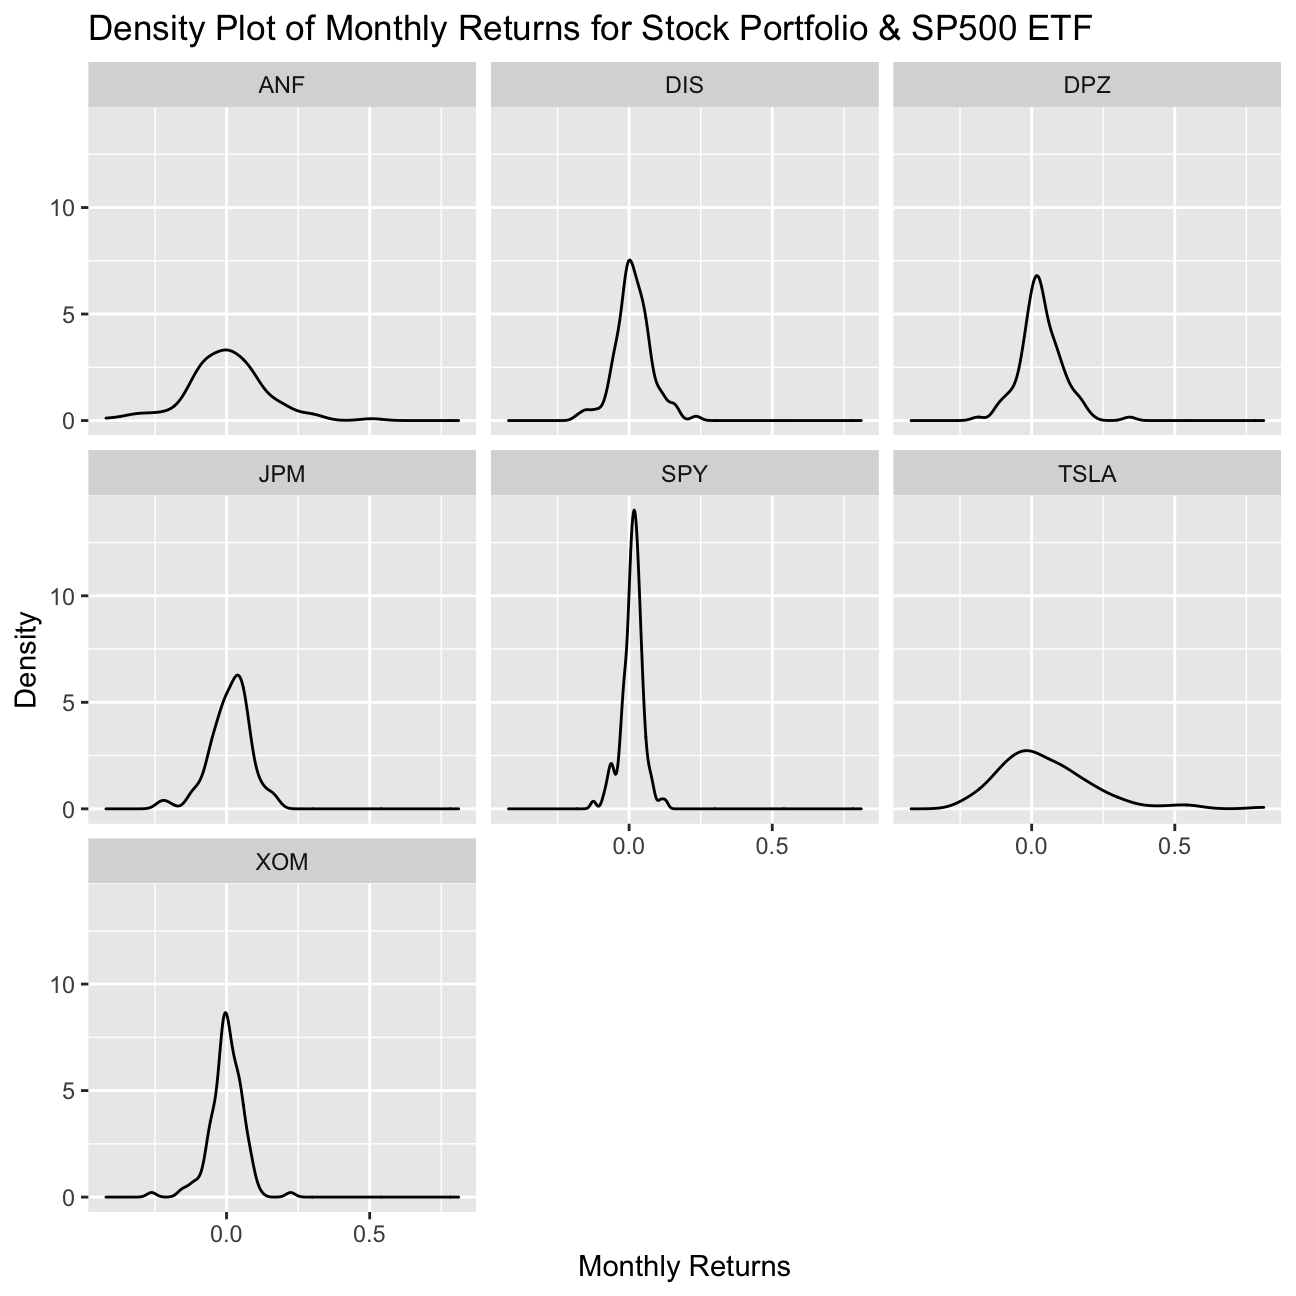
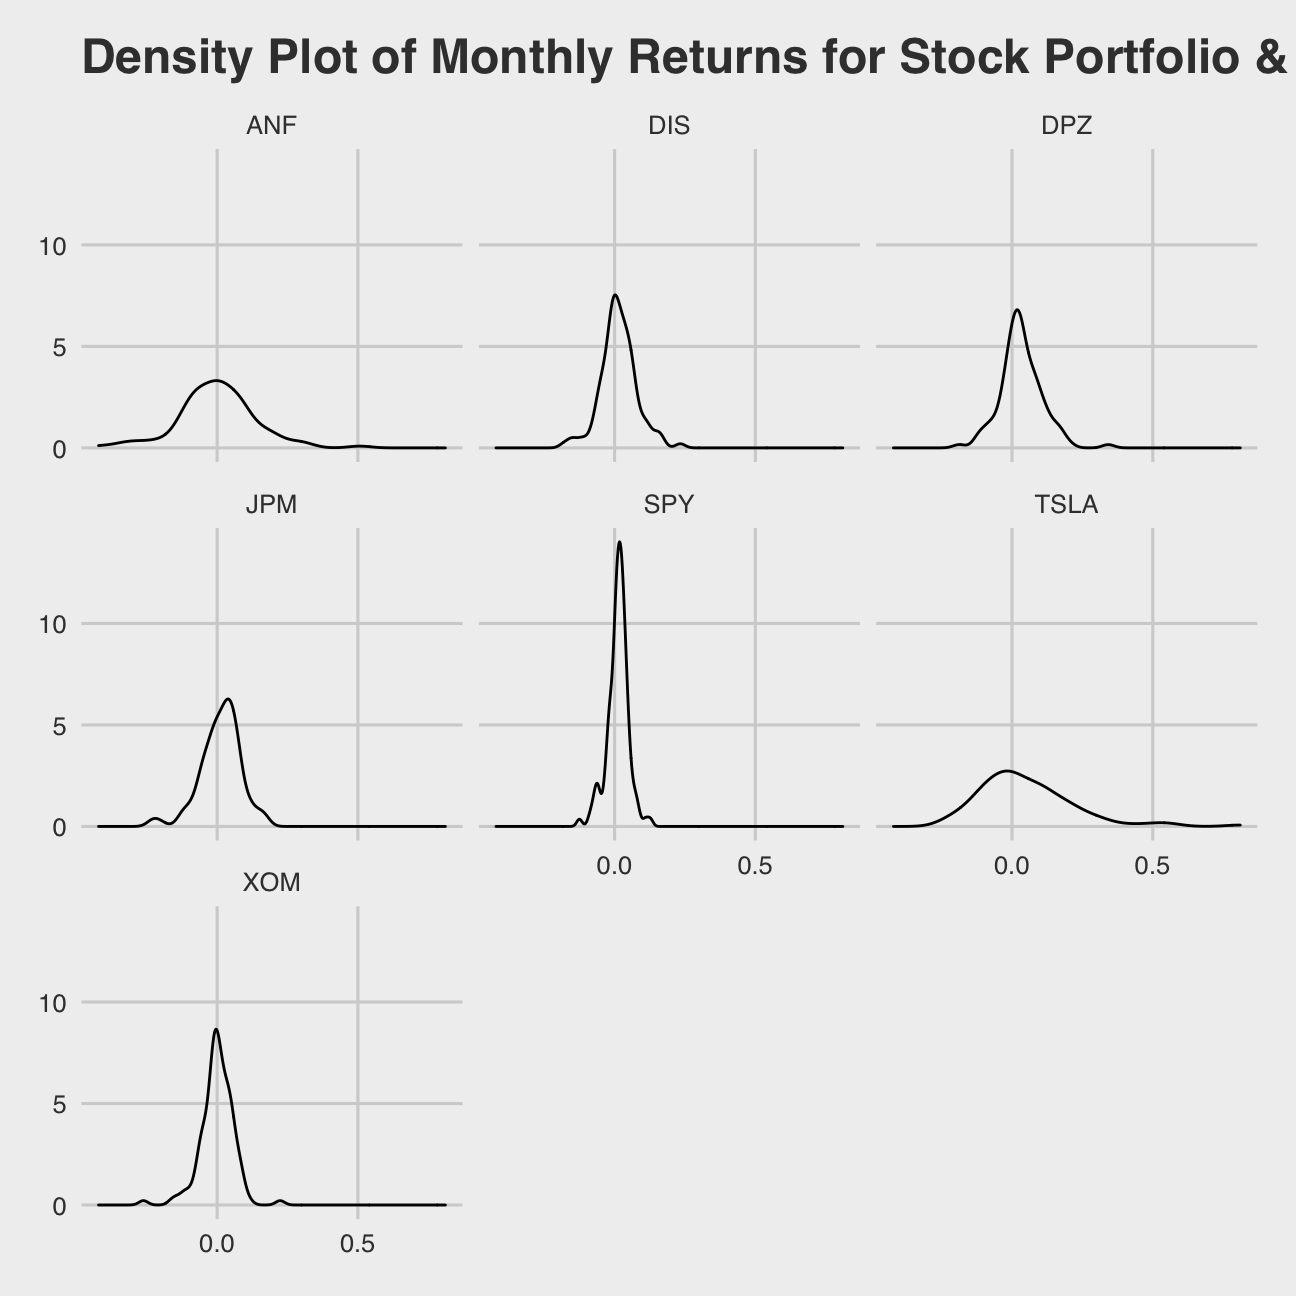
changing plot style in blogdown7

diff --git a/content/blogs/blog7.html b/content/blogs/blog7.html
@@ -26,8 +26,6 @@ library(tidyquant)
 library(kableExtra)
 library(ggrepel)
 library(patchwork)</code></pre>
-<div id="returns-of-financial-stocks" class="section level1">
-<h1>Returns of financial stocks</h1>
 <p>Here is the analysis on Returns of Financial Stock of a select few companies. We utilise the monthly, yearly and daily returns to gauge behaviour of these stock over a fixed period of time.</p>
 <pre class="r"><code># Read the dataset
 nyse &lt;- read_csv(here::here(&quot;data&quot;,&quot;nyse.csv&quot;))</code></pre>
@@ -187,7 +185,7 @@ glimpse(myStocks) # examine the structure of the resulting data frame</code></pr
 ## $ close    &lt;dbl&gt; 43.6, 44.2, 44.7, 44.5, 43.6, 43.4, 43.6, 44.7, 44.5, 44.9, …
 ## $ volume   &lt;dbl&gt; 43278500, 40036800, 50032500, 31606200, 69579400, 30098100, …
 ## $ adjusted &lt;dbl&gt; 33.3, 33.8, 34.2, 34.0, 33.4, 33.2, 33.4, 34.2, 34.0, 34.4, …</code></pre>
-<p><strong>(3) - Financial performance analysis depend on returns; If I buy a stock today for 100 and I sell it tomorrow for 101.75, my one-day return, assuming no transaction costs, is 1.75%. So given the adjusted closing prices, our first step is to calculate daily and monthly returns.</strong></p>
+<p><strong>- Financial performance analysis depend on returns; If I buy a stock today for 100 and I sell it tomorrow for 101.75, my one-day return, assuming no transaction costs, is 1.75%. So given the adjusted closing prices, our first step is to calculate daily and monthly returns.</strong></p>
 <pre class="r"><code>#calculate daily returns
 myStocks_returns_daily &lt;- myStocks %&gt;%
   tq_transmute(select     = adjusted, 
@@ -215,7 +213,7 @@ myStocks_returns_annual &lt;- myStocks %&gt;%
                type       = &quot;arithmetic&quot;,
                col_rename = &quot;yearly_returns&quot;,
                cols = c(nested.col))</code></pre>
-<p><strong>(4) - Creating a table where I summarise monthly returns for each of the stocks and <code>SPY</code>(Exchange Trade Fund); min, max, median, mean, SD.</strong></p>
+<p><strong>Creating a table where I summarise monthly returns for each of the stocks and <code>SPY</code>(Exchange Trade Fund); min, max, median, mean, SD.</strong></p>
 <pre class="r"><code>#We group the monthly returns data by symbol, and create the summary variables in summarise, before arranging by mean in descending order
 summary_monthly_stock_returns &lt;- myStocks_returns_monthly %&gt;% 
   
@@ -397,14 +395,14 @@ ANF
 <p><strong>(5) - Plot a density plot, using <code>geom_density()</code>, for each of the stocks</strong></p>
 <pre class="r"><code>#We create a density plot, with appropriately labelled axes and an appropriate title, faceted by stock ticker
 ggplot(myStocks_returns_monthly, aes(x=monthly_returns)) + 
-  geom_density() + 
+  geom_density() + theme_fivethirtyeight() +
   facet_wrap(~symbol) + 
   labs(x=&quot;Monthly Returns&quot;, y=&quot;Density&quot;, title=&quot;Density Plot of Monthly Returns for Stock Portfolio &amp; SP500 ETF&quot;)</code></pre>
 <p><img src="/blogs/blog7_files/figure-html/density_monthly_returns-1.png" width="648" style="display: block; margin: auto;" /></p>
 <p>The Tesla (TSLA) stock is most risky, since the distribution of monthly returns is widest, showing high variation. Further, it is skewed positively, meaning this variation falls around and below a return of 0.00%. While Abercrombie &amp; Fitch Co. (ANF) may seem similarly risky, this shows a higher peak, and therefore a narrower distribution, meaning less variation in monthly returns. This means it is a more certain, or less risky, investment.</p>
 <p>The least risky stock is Exxon Mobil (XOM), which has the highest peak of all the stock distributions. Despite being centred on a mode value of 0, as this has the narrowest distribution of monthly returns, it carries the highest certainty.</p>
 <p>Though SP500 ETF shows the least risk of all the assets by far, with an extremely narrow distribution, it is an index, not a stock.</p>
-<p><strong>(6) - Finally, we plot the expected monthly return (mean) of a stock on the Y axis and the risk (standard deviation) in the X-axis.</strong></p>
+<p><strong>Finally, we plot the expected monthly return (mean) of a stock on the Y axis and the risk (standard deviation) in the X-axis.</strong></p>
 <pre class="r"><code>#We create a standard scatter plot, labelling axes appropriately
 ggplot(summary_monthly_stock_returns, aes(x=SD, y=mean, label=symbol)) + theme_minimal() +
   geom_point(alpha=1) + 
@@ -414,4 +412,3 @@ of Monthly Returns&quot;) </code></pre>
 <p><img src="/blogs/blog7_files/figure-html/risk_return_plot-1.png" width="648" style="display: block; margin: auto;" /></p>
 <p>This plot demonstrates that there is a generally positive correlation between mean and standard deviation of monthly returns, which is to be expected since investors willing to take on greater risk expect a higher return for it, otherwise the risk is not worth taking on.</p>
 <p>Yet, as we observed in the density plot above, while Abercrombie has high variability in its monthly returns (it is risky), its mean monthly return is actually negative. This, like Exxon Mobil, contradicts the general observed relationship between risk (monthly price variation, SD) and mean return, by having higher-than-expected variation given its low (~0.00%) mean monthly return.</p>
-</div>
